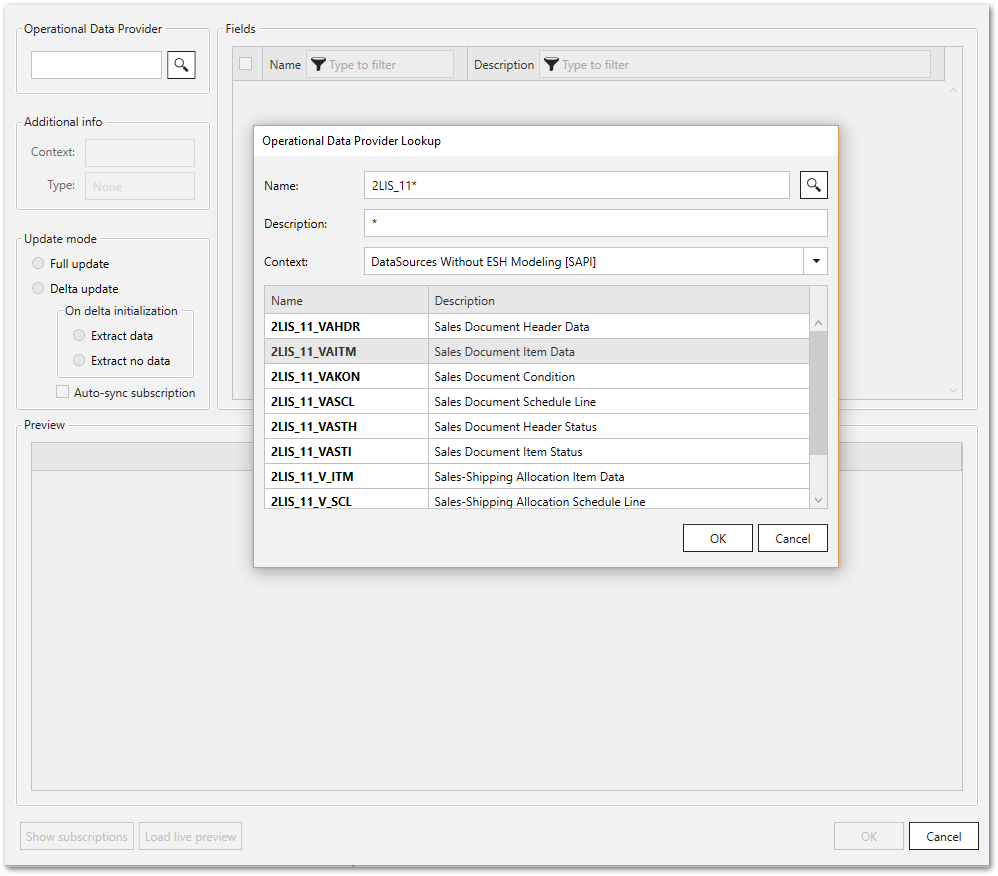
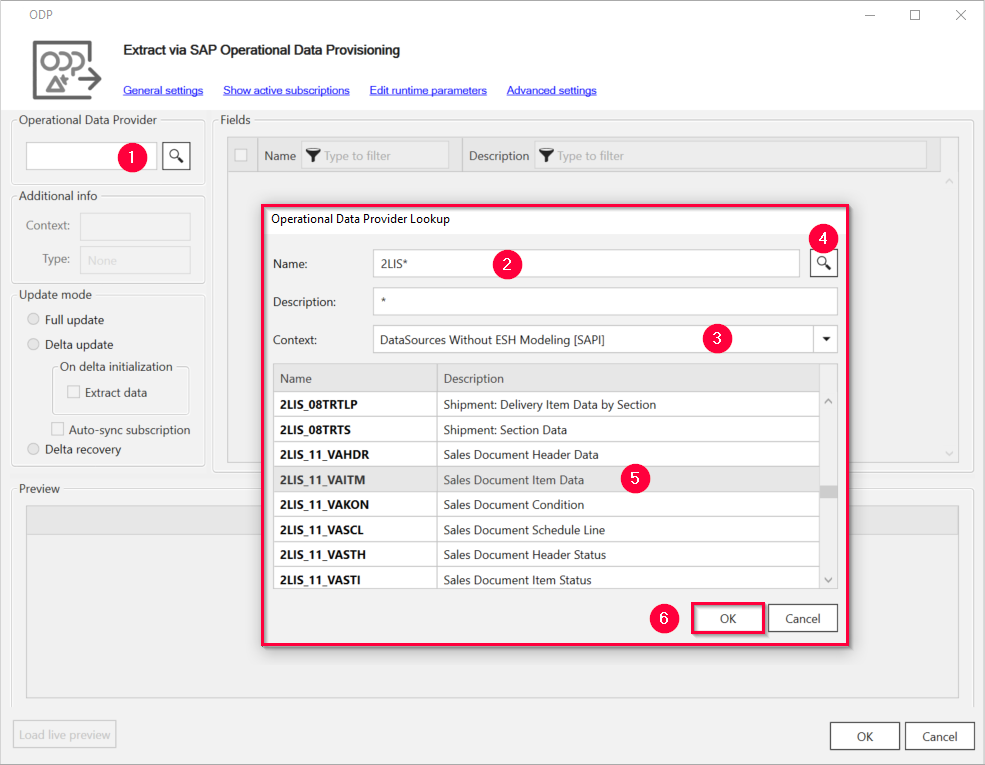
define extraction

Changed region(s): [[0.0, 0.0, 1.0, 1.0]]

diff --git a/_includes/_content/en/odp/odp-introduction.md b/_includes/_content/en/odp/odp-introduction.md
@@ -1,11 +1,4 @@
 
-### Technical Prerequisites
-
-There are a few prerequisites that need to be fulfilled on the SAP side, when using ODP. SAP released a number of SAP notes that apply when using Xtract ODP component:
-- [1931427 - ODP Data Replication API 2.0](https://launchpad.support.sap.com/#/notes/1931427)
-- [2232584 - Release of SAP extractors for ODP replication (ODP SAPI)](https://launchpad.support.sap.com/#/notes/2232584)
-- [1560241 - Release of DataSources for ODP data replication API](https://launchpad.support.sap.com/#/notes/1560241)
-
 ### About Xtract ODP
 
 The Xtract ODP component can be used to extract data via the SAP Operational Data Provisioning (ODP) framework. 
@@ -24,44 +17,25 @@ With SAP BW/4HANA, Operational Data Provisioning (ODP) becomes the central infra
 <br/>
 
 ODP provides data transfer from the following providers (also called Provider Context): 
-- ABAP Core Data Services (CDS) Views 
-- BW and BW/4HANA InfoProviders
-- HANA Information Views in HANA based SAP Systems 
-- DataSources and Extractors 
-
-{: .box-note }
-**Note:** Depending on the connected SAP source system there are differences in available provider context. 
-
-The following example depicts the available provider context with BW /4 HANA connected as SAP source system.
-A BW or ECC system contains less options in the provider context list.
-
-![ODP Provider Context from an BW/4 HANA System](/img/content/odp/odp-component-context-bw.png){:class="img-responsive"}
-
-
-### SAP Source Objects and Suitable ODP Contexts
  
 ODP context | SAP Source objects |
 ------------ |------------ |
 ABAP Core Data Services [[ABAP_CDS](./odp/odp-abap-cds-views)]|- CDS Views |
 SAP NetWeaver Business Warehouse [[BW](./odp/odp-bw-infoproviders)] |**BW/4HANA:**<br> - DSO / aDSO<br> - CompositeProvider<br> - InfoObjects <br> - Query as InfoProvider<br> **BW systems:**<br> - CompositeProvider<br> - InfoCubes<br> - Semantically partitioned objects<br> - HybridProviders<br> - MultiProviders<br> - InfoSets |
 SAP HANA Information Views [[HANA](./odp/odp-hana-views)] | - Analysis Views<br> - Calculation Views<br> - Associated Attribute Views |
-DataSources/Extractos [[SAPI](./odp/odp-extractors)] | - DataSources and Extractors |
+DataSources/Extractors [[SAPI](./odp/odp-extractors)] | - DataSources and Extractors |
 
-Suitable ODP contexts can be selected within the [ODP Lookup window](./odp/odp-extractors#extractor-search).
+{: .box-note }
+**Note:** Depending on the connected SAP source system there are differences in available provider context. 
 
-###  Xtract ODP - Functions Overview
-The window “Define Data Source for SAP ODP” contains several subsections:
 
-- [Operational Data Provider](./odp/odp-functions-ov#operational-data-provider) - displays the name of the source object
-- [Additional info](./odp/odp-functions-ov#additional-info) - displays the ODP provider context and the data type of the source object
-- [Update mode](./odp/odp-functions-ov#update-mode) - defines the update mode, full or delta update
-- [Fields](./odp/odp-functions-ov#filtering---dynamic-setting-of-the-selection-filters) - allows selection and setting of the filter options for [extractors](./odp/odp-extractors)
-- Preview - Section with a real-time preview of the extraction data
+### Technical Prerequisites
 
-#### Buttons
-- **[[Show active subscriptions ](./odp/odp-functions-ov#subscriptions)]** - Button to display details on subscriber process
-- **[[Edit parameters](./odp/odp-functions-ov#edit-parameters-)]** - Button to define run-time parameters that can be used as placeholders for data selections
-- **[Load Live Preview]** - Button to display a real-time preview of the extraction data without executing the extraction 
+There are a few prerequisites that need to be fulfilled on the SAP side, when using ODP. SAP released a number of SAP notes that apply when using Xtract ODP component:
+- [1931427 - ODP Data Replication API 2.0](https://launchpad.support.sap.com/#/notes/1931427)
+- [2232584 - Release of SAP extractors for ODP replication (ODP SAPI)](https://launchpad.support.sap.com/#/notes/2232584)
+- [1560241 - Release of DataSources for ODP data replication API](https://launchpad.support.sap.com/#/notes/1560241)
+
 
 ****
 #### Related Links

diff --git a/content/_en/xtract-universal/odp/odp-define.md b/content/_en/xtract-universal/odp/odp-define.md
@@ -1,0 +1,58 @@
+---
+ref: xu-odp-define
+layout: page
+title: Define an ODP Extraction
+description: ODP Extracttion
+product: xtract-universal
+parent: Operational Data Provisioning (ODP)
+permalink: /:collection/:path
+weight: 1
+lang: en_GB
+progressstate: 5
+---
+The following section shows how to use the Xtract ODP component.
+
+### To Search for a Data Object
+1. Within the main window of the component "Xtract ODP" navigate to **Operational Data Provider** and click **Search** (magnifying glass symbol) (1). <br>
+The window "Operational Data Provider Lookup" opens.
+![Datasource Sales Document Item Data (2LIS_11_VAITM)](/img/content/odp/odp-datasource-2lis-11-vaitm-01.png){:class="img-responsive"}
+2. In the field **Name** (2) enter a name of an extractor using wildcards (*), if needed.
+3. Select a *Context* (3). Depending on the connected SAP source system there are differences in available provider context.
+	
+	ODP context | SAP Source objects |
+	------------ |------------ |
+	ABAP Core Data Services [[ABAP_CDS](./odp/odp-abap-cds-views)]|- CDS Views |
+	SAP NetWeaver Business Warehouse [[BW](./odp/odp-bw-infoproviders)] |**BW/4HANA:**<br> - DSO / aDSO<br> - CompositeProvider<br> - InfoObjects <br> - Query as InfoProvider<br> **BW systems:**<br> - CompositeProvider<br> - InfoCubes<br> - Semantically partitioned objects<br> - HybridProviders<br> - MultiProviders<br> - InfoSets |
+	SAP HANA Information Views [[HANA](./odp/odp-hana-views)] | - Analysis Views<br> - Calculation Views<br> - Associated Attribute Views |
+	DataSources/Extractors [[SAPI](./odp/odp-extractors)] | - DataSources and Extractors |
+4. Click **Search** (magnifying glass symbol) (4) and select the extractor of your choice from the displayed list (5).
+5. Click **[OK]** (6) to confirm.
+6. Update mode/Hierarchy
+7. Optional: Create selections by activating or deactivating fields. To add [filters](#selections-and-filters) click the **Edit** option next to the fields.
+8. Click **[Load live preview]** (7) to display a live preview of the data without executing an extraction.
+![Datasource Preview](/img/content/odp/odp-datasource-2lis-11-vaitm-02-preview.png){:class="img-responsive"}
+9. Before executing an extraction, check the [extraction settings](./odp-settings).
+
+### Update Mode 
+**Full update**: <br/>
+Extracts the data in full mode <br/>
+
+{: .box-note }
+**Note:** The **Delta update** option is ready for input only if the ODP provider in the SAP source system supports delta updates.
+
+**Delta update**:<br/>
+Runs a delta initialization, if no delta initialization is available for selected subscriber. Runs a delta update, if there is a delta initialization for the selected subscriber. <br/>
+
+- **On delta initialization** <br/>
+Checking the *Extract data* checkbox, allows extracting data when running a delta initialization. 
+Leaving the checkbox unchecked runs a delta initialization without extracting data. <br/>
+- **Auto-sync subscription**<br/>
+Allows deletion of the existing subscription and creates a new subscription, if required.
+Each extraction has an internal ID, which is part of the subscriber. 
+If you change the filter of an extraction after the delta initialization, the *Auto-sync subscription* option automatically deletes the existing subscription and creates a new one. 
+A subscription is deleted, if the error message "Illegal change in selection parameters" returns from the SAP system.<br/>
+
+**Delta recovery:**<br/>
+Re-runs the last delta update 
+
+{% include _content/en/odp/odp-settings-filtering.md %}

diff --git a/content/_en/xtract-universal/odp/odp-functions-ov.md b/content/_en/xtract-universal/odp/odp-functions-ov.md
@@ -6,12 +6,48 @@ description: ODP Introduction
 product: xtract-universal
 parent: Operational Data Provisioning (ODP)
 permalink: /:collection/:path
-weight: 1
+weight: 2
 lang: en_GB
 progressstate: 5
 ---
 The following section describes the settings of the Xtract ODP component that can be accessed through the main component window “Define Data Source for SAP ODP”.
 ![ODP Component](/img/content/odp/odp_overview.png){:class="img-responsive"}
+
+
+
+The following example depicts the available provider context with BW /4 HANA connected as SAP source system.
+A BW or ECC system contains less options in the provider context list.
+
+![ODP Provider Context from an BW/4 HANA System](/img/content/odp/odp-component-context-bw.png){:class="img-responsive"}
+
+
+### SAP Source Objects and Suitable ODP Contexts
+ 
+ODP context | SAP Source objects |
+------------ |------------ |
+ABAP Core Data Services [[ABAP_CDS](./odp/odp-abap-cds-views)]|- CDS Views |
+SAP NetWeaver Business Warehouse [[BW](./odp/odp-bw-infoproviders)] |**BW/4HANA:**<br> - DSO / aDSO<br> - CompositeProvider<br> - InfoObjects <br> - Query as InfoProvider<br> **BW systems:**<br> - CompositeProvider<br> - InfoCubes<br> - Semantically partitioned objects<br> - HybridProviders<br> - MultiProviders<br> - InfoSets |
+SAP HANA Information Views [[HANA](./odp/odp-hana-views)] | - Analysis Views<br> - Calculation Views<br> - Associated Attribute Views |
+DataSources/Extractos [[SAPI](./odp/odp-extractors)] | - DataSources and Extractors |
+
+Suitable ODP contexts can be selected within the [ODP Lookup window](./odp/odp-extractors#extractor-search).
+
+###  Xtract ODP - Functions Overview
+The window “Define Data Source for SAP ODP” contains several subsections:
+
+- [Operational Data Provider](./odp/odp-functions-ov#operational-data-provider) - displays the name of the source object
+- [Additional info](./odp/odp-functions-ov#additional-info) - displays the ODP provider context and the data type of the source object
+- [Update mode](./odp/odp-functions-ov#update-mode) - defines the update mode, full or delta update
+- [Fields](./odp/odp-functions-ov#filtering---dynamic-setting-of-the-selection-filters) - allows selection and setting of the filter options for [extractors](./odp/odp-extractors)
+- Preview - Section with a real-time preview of the extraction data
+
+#### Buttons
+- **[[Show active subscriptions ](./odp/odp-functions-ov#subscriptions)]** - Button to display details on subscriber process
+- **[[Edit parameters](./odp/odp-functions-ov#edit-parameters-)]** - Button to define run-time parameters that can be used as placeholders for data selections
+- **[Load Live Preview]** - Button to display a real-time preview of the extraction data without executing the extraction 
+
+
+
 
 {% include _content/en/odp/odp-settings-update_mode.md %} 
 {% include _content/en/odp/odp-hierarchy.md %} 

diff --git a/content/_en/xtract-universal/odp/odp-settings.md b/content/_en/xtract-universal/odp/odp-settings.md
@@ -1,0 +1,21 @@
+---
+ref: xu-odp-settings
+layout: page
+title: Settings
+description: ODP Settings
+product: xtract-universal
+parent: Operational Data Provisioning (ODP)
+permalink: /:collection/:path
+weight: 3
+lang: en_GB
+progressstate: 5
+---
+The following section describes the settings of the Xtract ODP component that can be accessed through the main component window “Define Data Source for SAP ODP”.
+![ODP Component](/img/content/odp/odp-settings.png){:class="img-responsive"}
+
+### General Settings
+The [General Settings](../getting-started/general-settings) include security, encryption and keys.
+
+{% include _content/en/odp/odp-settings-subscriptions.md %}
+{% include _content/en/odp/odp-settings-parameters.md %}
+{% include _content/en/odp/odp-settings-advanced.md %}

diff --git a/_includes/_content/en/odp/odp-extractors.md b/_includes/_content/en/odp/odp-extractors.md
@@ -24,3 +24,5 @@ When [searching](./odp-functions-ov#operational-data-provider) for BW InfoProvid
 ![ODP SAPI Search](/img/content/odp/odp-datasource-2lis-11-vaitm-02-preview.png){:class="img-responsive"}
 
 Click **[Load live preview]** to preview the data without executing an extraction.
+
+{% include _content/en/odp/odp-hierarchy.md %} 

diff --git a/_includes/_content/en/odp/odp-settings-filtering.md b/_includes/_content/en/odp/odp-settings-filtering.md
@@ -1,4 +1,4 @@
-### Fields - dynamic setting of the selection filters
+### Selections and Filters
 Filtering options are located under subsection **Fields** in the main window of the component.<br/>
 ![ODP Fields](/img/content/odp/odp-fiter.png){:class="img-responsive" width="600px"}
 
